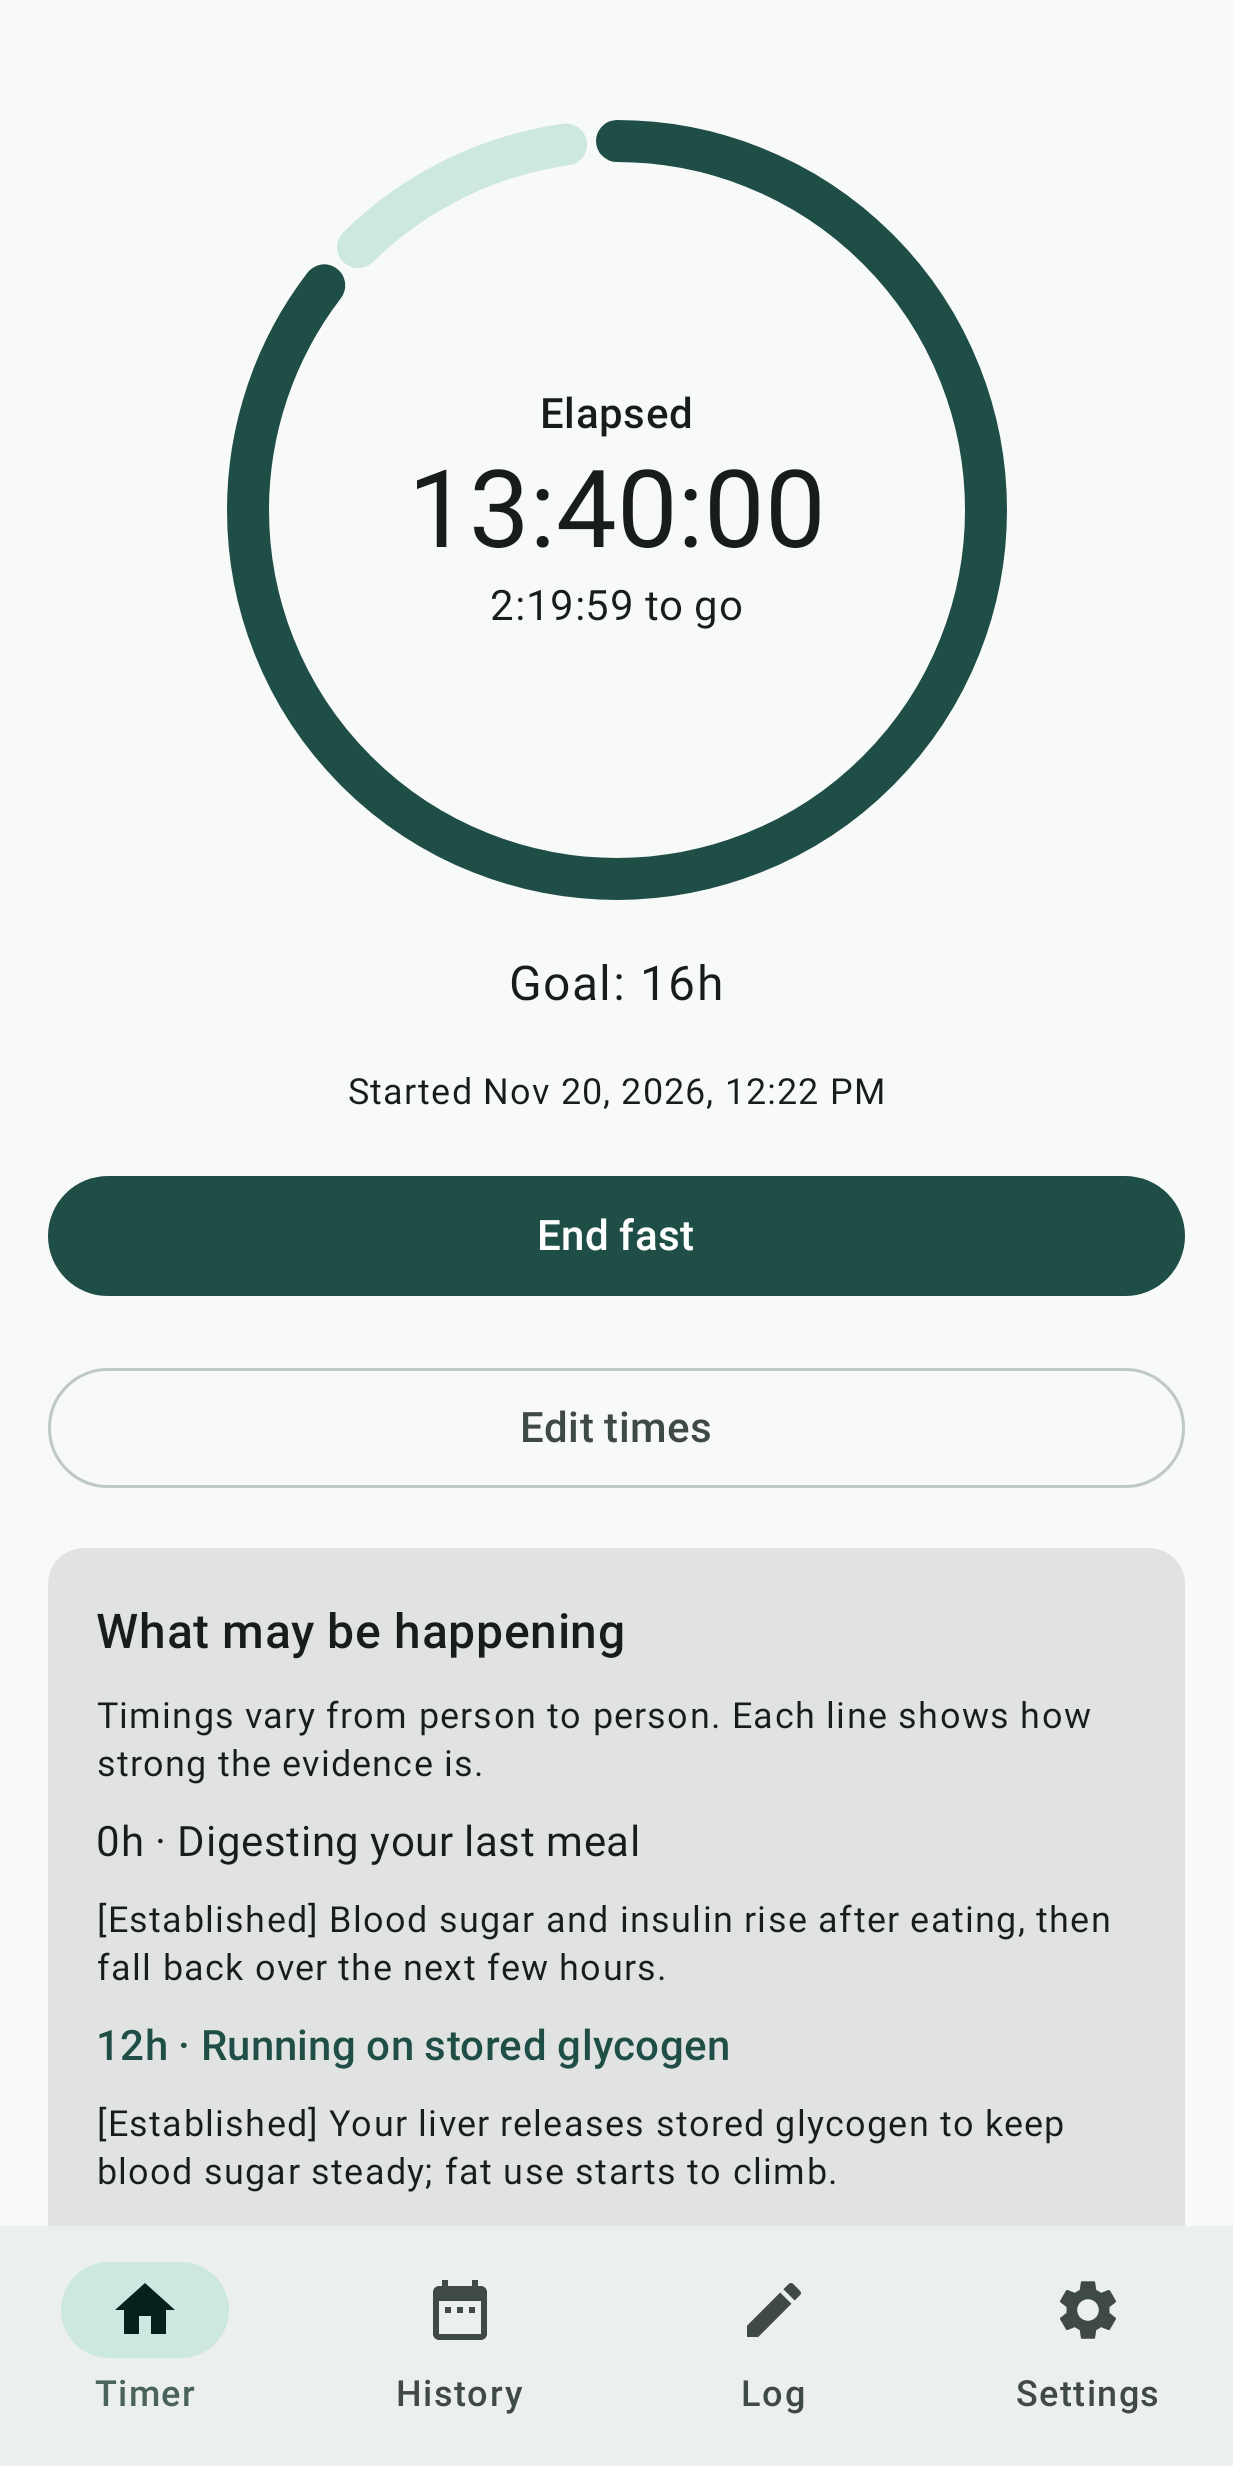
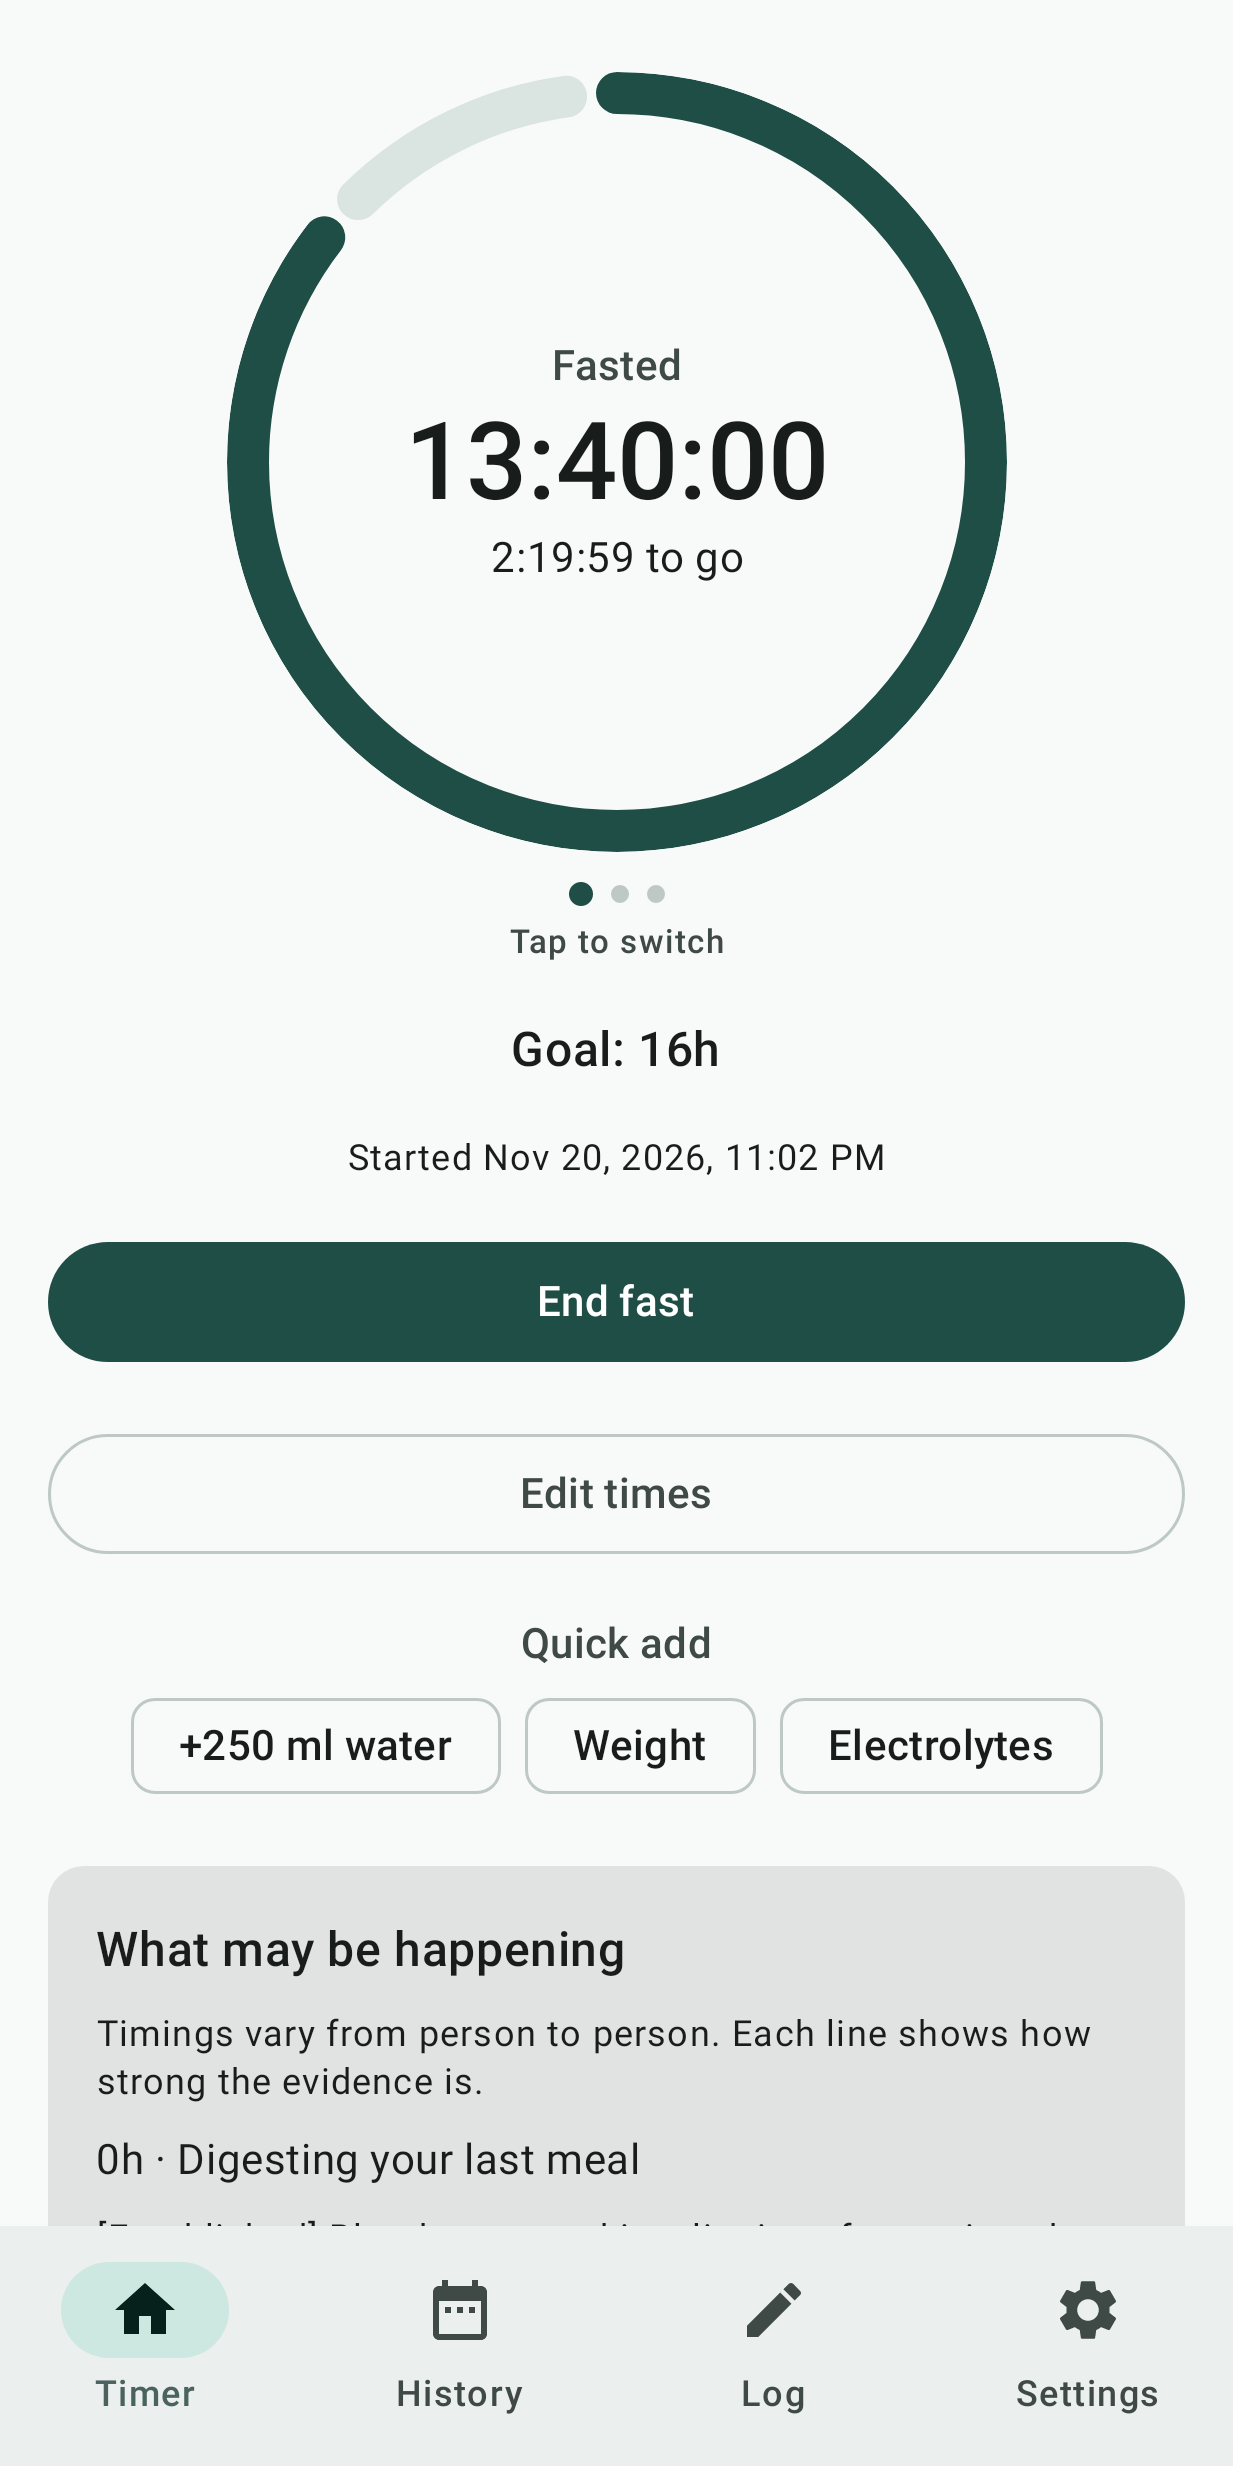
Screenshots for timer views (left, break-at); tighter Log entry lists
Claude-Session: https://claude.ai/code/session_017hDt13ixCV7PfNmHoRmrk1

diff --git a/app/src/test/kotlin/com/fastingshift/app/StoreScreenshotTest.kt b/app/src/test/kotlin/com/fastingshift/app/StoreScreenshotTest.kt
@@ -1,5 +1,7 @@
 package com.fastingshift.app
 
+import androidx.compose.ui.test.hasClickAction
+import androidx.compose.ui.test.hasContentDescription
 import androidx.compose.ui.test.hasScrollToNodeAction
 import androidx.compose.ui.test.hasText
 import androidx.compose.ui.test.junit4.createAndroidComposeRule
@@ -35,7 +37,9 @@ import java.time.LocalTime
 import java.time.ZoneId
 import javax.inject.Inject
 import kotlinx.coroutines.runBlocking
+import org.junit.After
 import org.junit.Assume.assumeTrue
+import com.fastingshift.domain.timer.TimerDisplayMode
 import org.junit.Before
 import org.junit.Rule
 import org.junit.Test
@@ -75,6 +79,7 @@ class StoreScreenshotTest {
         val zone = ZoneId.systemDefault()
         val now = Instant.now()
         settings.setOnboardingComplete(true)
+        settings.setTimerMode(TimerDisplayMode.ELAPSED)
         settings.setMilestoneHours(setOf(12, 16))
         screening.save(ScreeningRecord(now, ScreeningAnswers(42, false, false, false, emptySet(), 178.0, 82.0), GateResult.OK, false))
         // Three weeks of mostly-kept 16:8 days, one shorter day, one longer weekend fast.
@@ -104,6 +109,17 @@ class StoreScreenshotTest {
     private fun waitFor(text: String) =
         compose.waitUntil(15_000) { compose.onAllNodesWithText(text).fetchSemanticsNodes().isNotEmpty() }
 
+    private fun waitForDescription(part: String) =
+        compose.waitUntil(15_000) { compose.onAllNodes(hasContentDescription(part, substring = true)).fetchSemanticsNodes().isNotEmpty() }
+
+    @After fun tearDown() {
+        if (outDir == null) return
+        runBlocking {
+            settings.setOnboardingComplete(false)
+            settings.setTimerMode(TimerDisplayMode.ELAPSED)
+        }
+    }
+
     private fun shoot(name: String, mode: String) {
         compose.waitForIdle()
         captureScreenRoboImage(File(outDir, "$name-$mode.png").path)
@@ -112,6 +128,16 @@ class StoreScreenshotTest {
     private fun captureAll(mode: String) {
         waitFor(s(R.string.timer_end))
         shoot("1-timer", mode)
+        // Tapping the ring flips it to time left, then to when the fast can be broken.
+        val ring = compose.onNode(hasContentDescription(s(R.string.a11y_mode_elapsed), substring = true))
+        ring.performClick()
+        waitForDescription(compose.activity.getString(R.string.a11y_mode_remaining, "").trimEnd(' ', ':'))
+        shoot("1b-timer-left", mode)
+        compose.onNode(hasClickAction() and hasContentDescription("Fasted ", substring = true)).performClick()
+        waitForDescription(compose.activity.getString(R.string.a11y_mode_break_at, "").trimEnd(' ', ':'))
+        shoot("1c-timer-break-at", mode)
+        compose.onNode(hasClickAction() and hasContentDescription("Fasted ", substring = true)).performClick()
+        waitForDescription(s(R.string.a11y_mode_elapsed))
         compose.onNodeWithText(s(R.string.tab_history)).performClick()
         val averagePrefix = compose.activity.getString(R.string.history_average, "", 0).substringBefore(" ")
         compose.waitUntil(15_000) { compose.onAllNodesWithText(averagePrefix, substring = true).fetchSemanticsNodes().isNotEmpty() }

diff --git a/app/src/main/kotlin/com/fastingshift/app/ui/log/LogScreen.kt b/app/src/main/kotlin/com/fastingshift/app/ui/log/LogScreen.kt
@@ -143,9 +143,11 @@ fun LogRoute(vm: LogViewModel = hiltViewModel()) {
             Row(horizontalArrangement = Arrangement.spacedBy(8.dp)) {
                 listOf(250, 500).forEach { ml -> OutlinedButton(onClick = { vm.addWater(ml.toDouble()) }) { Text(stringResource(R.string.log_add_water, ml)) } }
             }
-            st.waterEntries.forEach { w ->
-                val ml = if (w.unit == VolumeUnit.ML) w.value else w.value * 29.5735
-                EntryRow("${w.at.formatTime()} · ${stringResource(R.string.unit_ml_value, ml.toInt())}") { vm.deleteWater(w.id) }
+            Column {
+                st.waterEntries.forEach { w ->
+                    val ml = if (w.unit == VolumeUnit.ML) w.value else w.value * 29.5735
+                    EntryRow("${w.at.formatTime()} · ${stringResource(R.string.unit_ml_value, ml.toInt())}") { vm.deleteWater(w.id) }
+                }
             }
         }
         ElectrolyteCard(st, vm)
@@ -183,9 +185,11 @@ private fun ElectrolyteCard(st: LogState, vm: LogViewModel) {
                 Text(stringResource(R.string.log_add))
             }
         }
-        st.electrolyteEntries.forEach { e ->
-            EntryRow("${e.at.formatTime()} · ${stringResource(electrolyteLabel(e.electrolyte))} ${stringResource(R.string.unit_mg_value, e.milligrams.toInt())}") {
-                vm.deleteElectrolyte(e.id)
+        Column {
+            st.electrolyteEntries.forEach { e ->
+                EntryRow("${e.at.formatTime()} · ${stringResource(electrolyteLabel(e.electrolyte))} ${stringResource(R.string.unit_mg_value, e.milligrams.toInt())}") {
+                    vm.deleteElectrolyte(e.id)
+                }
             }
         }
     }
@@ -207,8 +211,10 @@ private fun WeightCard(st: LogState, vm: LogViewModel) {
         Button(onClick = {
             value.replace(',', '.').toDoubleOrNull()?.takeIf { it in 20.0..900.0 }?.let { vm.addWeight(it, unit); value = "" }
         }, modifier = Modifier.fillMaxWidth()) { Text(stringResource(R.string.log_add)) }
-        st.weights.forEach { w ->
-            EntryRow("${w.at.formatDate()}: ${weightText(convertWeight(w.value, w.unit, unit), unit)}") { vm.deleteWeight(w.id) }
+        Column {
+            st.weights.forEach { w ->
+                EntryRow("${w.at.formatDate()}: ${weightText(convertWeight(w.value, w.unit, unit), unit)}") { vm.deleteWeight(w.id) }
+            }
         }
     }
 }
